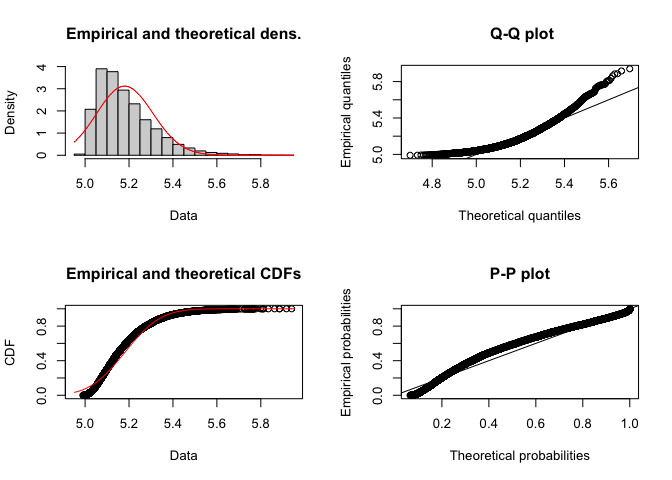
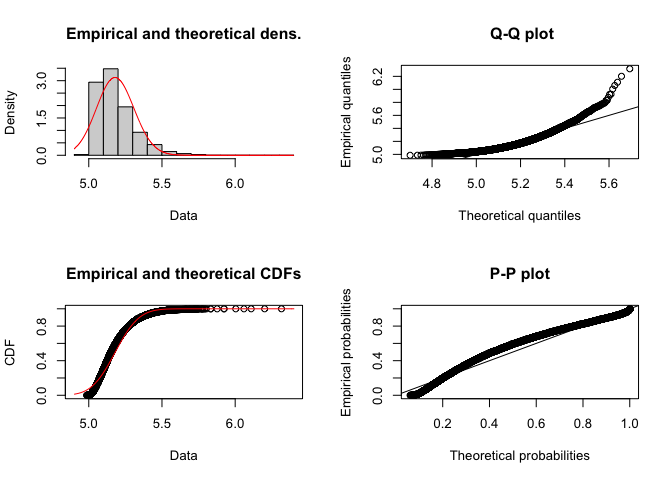
Update notebook

diff --git a/Notebooks/Lalonde.md b/Notebooks/Lalonde.md
@@ -1067,41 +1067,41 @@ hist(log(lalonde$re78))
 rgamma(100,2,11)
 ```
 
-    ##   [1] 0.271000363 0.074853333 0.067171978 0.451041096 0.317903592 0.311172210
-    ##   [7] 0.565519246 0.306116987 0.251879485 0.186329118 0.072198058 0.510544431
-    ##  [13] 0.377408632 0.165204725 0.178883943 0.065924985 0.070228140 0.197006248
-    ##  [19] 0.036262816 0.243034653 0.133258641 0.097906069 0.212007424 0.396288040
-    ##  [25] 0.417738827 0.101071986 0.148136494 0.247201136 0.231103717 0.323920245
-    ##  [31] 0.154293402 0.096522121 0.136233232 0.033502900 0.185310283 0.531883975
-    ##  [37] 0.215201692 0.526886871 0.085307076 0.225147073 0.211388712 0.232337003
-    ##  [43] 0.050577607 0.337005358 0.101209903 0.111540108 0.044954816 0.399030330
-    ##  [49] 0.053348543 0.145246129 0.008357667 0.256365622 0.238819097 0.448762907
-    ##  [55] 0.248160160 0.158080525 0.105187914 0.131486324 0.020172599 0.424904716
-    ##  [61] 0.036736755 0.126171624 0.181207781 0.086800952 0.098360571 0.526442104
-    ##  [67] 0.138589832 0.230844746 0.044525265 0.414276236 0.130649636 0.145114670
-    ##  [73] 0.347356274 0.247881839 0.116533326 0.443920335 0.051698061 0.069521054
-    ##  [79] 0.220130985 0.420607414 0.049704048 0.013903069 0.052901533 0.337733578
-    ##  [85] 0.174617469 0.304948968 0.160655205 0.129432284 0.158413201 0.129855725
-    ##  [91] 0.150241629 0.068261093 0.096343530 0.070768210 0.084504501 0.322515352
-    ##  [97] 0.405956636 0.121424880 0.058432813 0.091220928
+    ##   [1] 0.15300378 0.19365721 0.02078028 0.06171868 0.26755170 0.09892419
+    ##   [7] 0.20685886 0.18692776 0.02057308 0.25049702 0.21342502 0.17853744
+    ##  [13] 0.06964347 0.13524327 0.27223087 0.44004835 0.15234850 0.07626263
+    ##  [19] 0.27892517 0.03495172 0.24117406 0.05169215 0.05738705 0.07294351
+    ##  [25] 0.27029362 0.15523069 0.25266445 0.31655484 0.27796013 0.12032632
+    ##  [31] 0.28687707 0.07487566 0.23085721 0.29210373 0.30206995 0.26283678
+    ##  [37] 0.14189109 0.09929553 0.03677541 0.08963286 0.24139597 0.06111946
+    ##  [43] 0.08325441 0.04420482 0.06926101 0.42553498 0.37716979 0.27482229
+    ##  [49] 0.22685712 0.14186912 0.33674533 0.27855262 0.01321559 0.20282956
+    ##  [55] 0.05736001 0.29162376 0.15730309 0.01347663 0.07611053 0.26681036
+    ##  [61] 0.19497511 0.04363213 0.26850288 0.03386998 0.09975404 0.15087790
+    ##  [67] 0.08735132 0.46010125 0.09891519 0.21560155 0.09800034 0.19904466
+    ##  [73] 0.24763711 0.02255810 0.45716214 0.12175974 0.40448107 0.11880157
+    ##  [79] 0.12739359 0.27978731 0.40242834 0.16385710 0.08762090 0.22256492
+    ##  [85] 0.25193377 0.14218107 0.28313119 0.11266754 0.26019921 0.13838882
+    ##  [91] 0.10895801 0.18053138 0.13067646 0.20623484 0.12013119 0.60148981
+    ##  [97] 0.13572865 0.05231860 0.20382792 0.16744679
 
 ``` r
 rnorm(100,5,.01)
 ```
 
-    ##   [1] 5.003497 4.991681 5.004970 4.991794 5.014865 4.998047 4.991034 5.004079
-    ##   [9] 5.016878 5.008710 5.001067 4.999301 5.012737 5.013834 4.976757 5.004525
-    ##  [17] 4.994585 5.012747 5.001750 5.006378 5.002604 4.990882 4.996349 5.000061
-    ##  [25] 4.983337 5.018076 5.012398 4.983502 5.005733 4.996382 4.997649 4.979476
-    ##  [33] 4.997726 4.977838 5.000684 5.002316 4.988167 5.006600 5.006043 4.992347
-    ##  [41] 5.004628 5.000701 4.988140 5.004362 4.992951 5.002947 5.002059 5.004466
-    ##  [49] 5.003822 5.000335 5.000203 4.980479 5.006906 4.999294 5.007704 5.006235
-    ##  [57] 5.012758 5.022418 5.002190 4.997490 5.018566 5.002784 5.004571 5.004050
-    ##  [65] 5.007795 4.982974 5.003426 5.000727 5.000631 5.012801 4.975933 5.000767
-    ##  [73] 4.986195 5.027828 4.982038 5.011472 5.005147 5.001743 5.000532 5.000919
-    ##  [81] 5.015817 5.013211 5.008897 5.001090 5.002921 4.997264 4.995642 4.989397
-    ##  [89] 4.985361 4.995551 4.997818 4.982182 4.996592 4.987977 4.989475 5.005679
-    ##  [97] 5.009534 5.013038 5.005170 4.998338
+    ##   [1] 5.018696 4.996608 4.992919 5.009292 5.012352 5.000805 5.008366 5.010984
+    ##   [9] 5.009506 4.997635 4.983120 5.006606 5.013719 5.003109 5.009023 4.990362
+    ##  [17] 5.009575 5.008553 4.987662 5.018612 4.986739 4.997769 4.969067 5.003035
+    ##  [25] 5.001461 4.995255 5.008507 4.992627 4.994684 5.010292 5.025217 5.019376
+    ##  [33] 5.010831 5.006432 5.001328 4.992756 4.991536 4.997822 4.995167 4.992166
+    ##  [41] 5.002839 5.002666 4.999314 5.008138 5.005701 5.012506 4.977271 4.994504
+    ##  [49] 4.985989 5.003197 5.006357 5.017640 5.013884 4.991654 4.994927 5.002723
+    ##  [57] 4.986526 5.009798 5.003718 5.005474 5.011291 5.003483 4.992421 4.993746
+    ##  [65] 5.011966 4.978574 4.996382 4.991625 5.028015 4.998488 4.986380 5.020546
+    ##  [73] 4.999018 4.988061 4.993253 5.008424 5.005200 4.996947 5.001317 4.986098
+    ##  [81] 4.994848 4.992306 4.989937 4.993707 5.002591 4.985459 4.989773 4.984784
+    ##  [89] 5.002625 4.996189 4.985848 5.024096 5.021517 5.011650 4.996935 5.014825
+    ##  [97] 4.999589 4.996107 5.018655 5.009051
 
 ``` r
 x <- rgamma(10000,2,11) + rnorm(10000,5,.01)
@@ -1112,13 +1112,13 @@ summary(fit.gamma)
     ## Fitting of the distribution ' gamma ' by maximum likelihood 
     ## Parameters : 
     ##        estimate Std. Error
-    ## shape 1639.8984  23.185518
-    ## rate   316.3987   4.474049
-    ## Loglikelihood:  6371.259   AIC:  -12738.52   BIC:  -12724.1 
+    ## shape 1649.8416  23.339108
+    ## rate   318.3525   4.504184
+    ## Loglikelihood:  6401.918   AIC:  -12799.84   BIC:  -12785.42 
     ## Correlation matrix:
     ##           shape      rate
-    ## shape 1.0000000 0.9998475
-    ## rate  0.9998475 1.0000000
+    ## shape 1.0000000 0.9998486
+    ## rate  0.9998486 1.0000000
 
 ``` r
 plot(fit.gamma)
@@ -1223,9 +1223,7 @@ matched_lm <- lm(re78 ~ treat, data = match.data(match_1), weights = weights)
 
 
 autoplot(prematch_lm) +
-  #theme_minimal() + 
-  theme_ft_rc() + 
-  labs (title = "Model 1 Diagnostic Plots")
+  theme_abyss()
 ```
 
     ## Warning: `arrange_()` is deprecated as of dplyr 0.7.0.
@@ -1236,62 +1234,125 @@ autoplot(prematch_lm) +
 
 ![](Lalonde_files/figure-gfm/lin_mod-2.png)<!-- -->
 
-# Generalized Linear Modeling
+``` r
+  #theme_minimal() + 
+  #theme_ft_rc()
+```
+
+## Generalized Linear Modeling
+
+  - Get help page:
+  - ?family
+
+<!-- end list -->
 
 ``` r
-# Get help page:
-?family
-
-
 # Gaussian-distributed residuals and identity link = OLS:
-glm(re78 ~ treat, data = lalonde, family=gaussian(link = "identity"))
+gaussian_identity <- glm(re78 ~ treat, data = lalonde, family=gaussian(link = "identity"))
+summary(gaussian_identity)
 ```
 
     ## 
-    ## Call:  glm(formula = re78 ~ treat, family = gaussian(link = "identity"), 
+    ## Call:
+    ## glm(formula = re78 ~ treat, family = gaussian(link = "identity"), 
     ##     data = lalonde)
     ## 
-    ## Coefficients:
-    ## (Intercept)        treat  
-    ##        6984         -635  
+    ## Deviance Residuals: 
+    ##    Min      1Q  Median      3Q     Max  
+    ##  -6984   -6349   -2048    4100   53959  
     ## 
-    ## Degrees of Freedom: 613 Total (i.e. Null);  612 Residual
-    ## Null Deviance:       3.421e+10 
-    ## Residual Deviance: 3.416e+10     AIC: 12700
+    ## Coefficients:
+    ##             Estimate Std. Error t value Pr(>|t|)    
+    ## (Intercept)   6984.2      360.7  19.362   <2e-16 ***
+    ## treat         -635.0      657.1  -0.966    0.334    
+    ## ---
+    ## Signif. codes:  0 '***' 0.001 '**' 0.01 '*' 0.05 '.' 0.1 ' ' 1
+    ## 
+    ## (Dispersion parameter for gaussian family taken to be 55817843)
+    ## 
+    ##     Null deviance: 3.4213e+10  on 613  degrees of freedom
+    ## Residual deviance: 3.4161e+10  on 612  degrees of freedom
+    ## AIC: 12699
+    ## 
+    ## Number of Fisher Scoring iterations: 2
 
 ``` r
 # Gamma default link is "inverse"
-glm(re78 + 1 ~ treat, data = lalonde, family=Gamma(link = "inverse"))
+gamma_inverse <- glm(re78 + 1 ~ treat, data = lalonde, family=Gamma(link = "inverse"))
+summary(gamma_inverse)
 ```
 
     ## 
-    ## Call:  glm(formula = re78 + 1 ~ treat, family = Gamma(link = "inverse"), 
+    ## Call:
+    ## glm(formula = re78 + 1 ~ treat, family = Gamma(link = "inverse"), 
     ##     data = lalonde)
     ## 
-    ## Coefficients:
-    ## (Intercept)        treat  
-    ##   1.432e-04    1.432e-05  
+    ## Deviance Residuals: 
+    ##     Min       1Q   Median       3Q      Max  
+    ## -3.9627  -2.1946  -0.3500   0.5049   3.5345  
     ## 
-    ## Degrees of Freedom: 613 Total (i.e. Null);  612 Residual
-    ## Null Deviance:       2724 
-    ## Residual Deviance: 2722  AIC: 11140
+    ## Coefficients:
+    ##              Estimate Std. Error t value Pr(>|t|)    
+    ## (Intercept) 1.432e-04  7.648e-06   18.72   <2e-16 ***
+    ## treat       1.432e-05  1.492e-05    0.96    0.338    
+    ## ---
+    ## Signif. codes:  0 '***' 0.001 '**' 0.01 '*' 0.05 '.' 0.1 ' ' 1
+    ## 
+    ## (Dispersion parameter for Gamma family taken to be 1.224413)
+    ## 
+    ##     Null deviance: 2723.5  on 613  degrees of freedom
+    ## Residual deviance: 2722.4  on 612  degrees of freedom
+    ## AIC: 11137
+    ## 
+    ## Number of Fisher Scoring iterations: 6
 
 ``` r
 # Using log link
-glm(re78 + 1 ~ treat, data = lalonde, family=Gamma(link = "log"))
+gamma_log <- glm(re78 + 1 ~ treat, data = lalonde, family=Gamma(link = "log"))
+summary(gamma_log)
 ```
 
     ## 
-    ## Call:  glm(formula = re78 + 1 ~ treat, family = Gamma(link = "log"), 
+    ## Call:
+    ## glm(formula = re78 + 1 ~ treat, family = Gamma(link = "log"), 
     ##     data = lalonde)
     ## 
-    ## Coefficients:
-    ## (Intercept)        treat  
-    ##     8.85154     -0.09531  
+    ## Deviance Residuals: 
+    ##     Min       1Q   Median       3Q      Max  
+    ## -3.9627  -2.1946  -0.3500   0.5049   3.5345  
     ## 
-    ## Degrees of Freedom: 613 Total (i.e. Null);  612 Residual
-    ## Null Deviance:       2724 
-    ## Residual Deviance: 2722  AIC: 11140
+    ## Coefficients:
+    ##             Estimate Std. Error t value Pr(>|t|)    
+    ## (Intercept)  8.85154    0.05342 165.708   <2e-16 ***
+    ## treat       -0.09531    0.09731  -0.979    0.328    
+    ## ---
+    ## Signif. codes:  0 '***' 0.001 '**' 0.01 '*' 0.05 '.' 0.1 ' ' 1
+    ## 
+    ## (Dispersion parameter for Gamma family taken to be 1.224076)
+    ## 
+    ##     Null deviance: 2723.5  on 613  degrees of freedom
+    ## Residual deviance: 2722.4  on 612  degrees of freedom
+    ## AIC: 11137
+    ## 
+    ## Number of Fisher Scoring iterations: 12
+
+``` r
+plot(rstudent(gamma_log))
+```
+
+![](Lalonde_files/figure-gfm/glm-1.png)<!-- -->
+
+``` r
+plot(influence(gamma_log)$hat)
+```
+
+![](Lalonde_files/figure-gfm/glm-2.png)<!-- -->
+
+``` r
+plot(cooks.distance(gamma_log))
+```
+
+![](Lalonde_files/figure-gfm/glm-3.png)<!-- -->
 
 ## Uncertainty / confidence intervals
 
